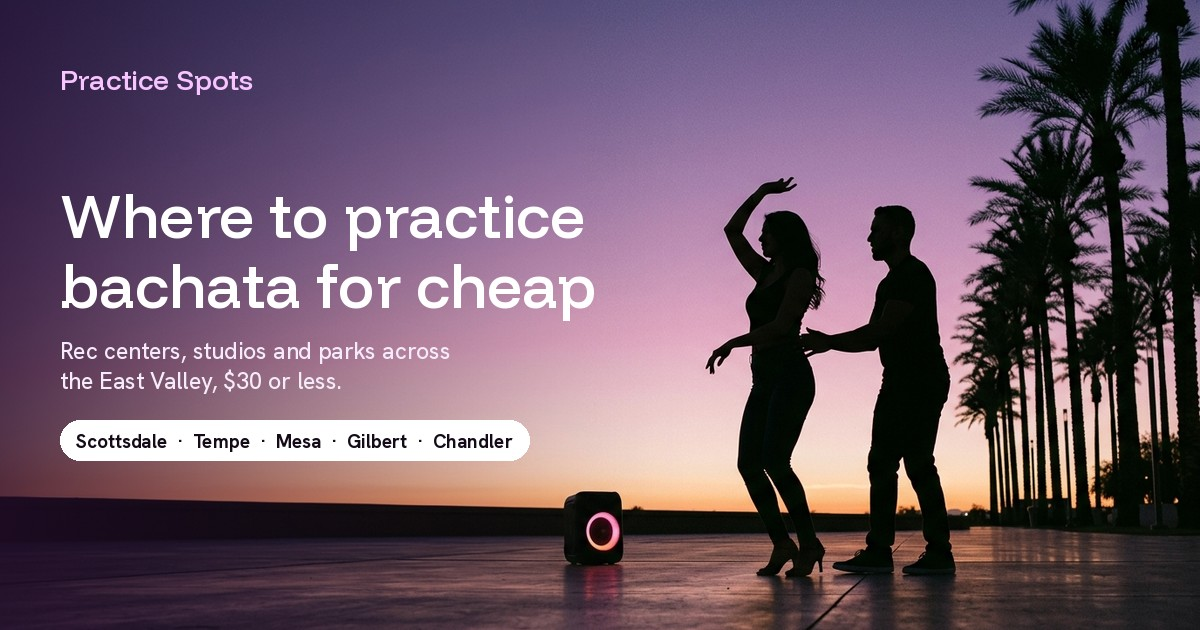
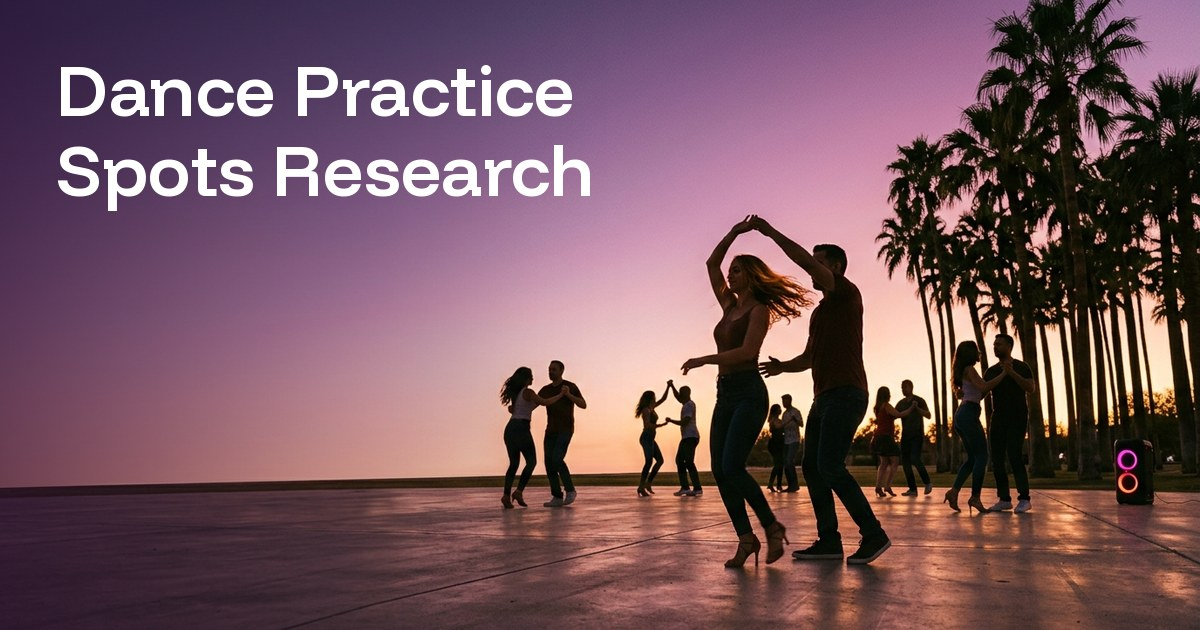
OG image: group of dancers, headline only
Claude-Session: https://claude.ai/code/session_01WBR9TT6Ht5pB6ipLnSweCg

diff --git a/index.html b/index.html
@@ -7,13 +7,13 @@
 <title>Practice Spots</title>
 <meta name="description" content="Cheap indoor and outdoor places to practice partner bachata in Scottsdale, Tempe, Mesa, Gilbert and Chandler, with prices, photos and links.">
 <meta property="og:type" content="website">
-<meta property="og:title" content="Where to practice bachata for cheap">
+<meta property="og:title" content="Dance Practice Spots Research">
 <meta property="og:description" content="Rec centers, studios and parks across the East Valley, $30 or less, cheapest first.">
 <meta property="og:url" content="https://elijahcarimbocas.github.io/bachata-practice-spots/">
 <meta property="og:image" content="https://elijahcarimbocas.github.io/bachata-practice-spots/img/og.jpg">
 <meta property="og:image:width" content="1200">
 <meta property="og:image:height" content="630">
-<meta property="og:image:alt" content="Two bachata dancers silhouetted on a plaza at dusk with palm trees">
+<meta property="og:image:alt" content="Couples dancing bachata on a plaza at dusk with palm trees">
 <meta name="twitter:card" content="summary_large_image">
 <meta name="twitter:image" content="https://elijahcarimbocas.github.io/bachata-practice-spots/img/og.jpg">
 <link rel="preconnect" href="https://fonts.googleapis.com">
